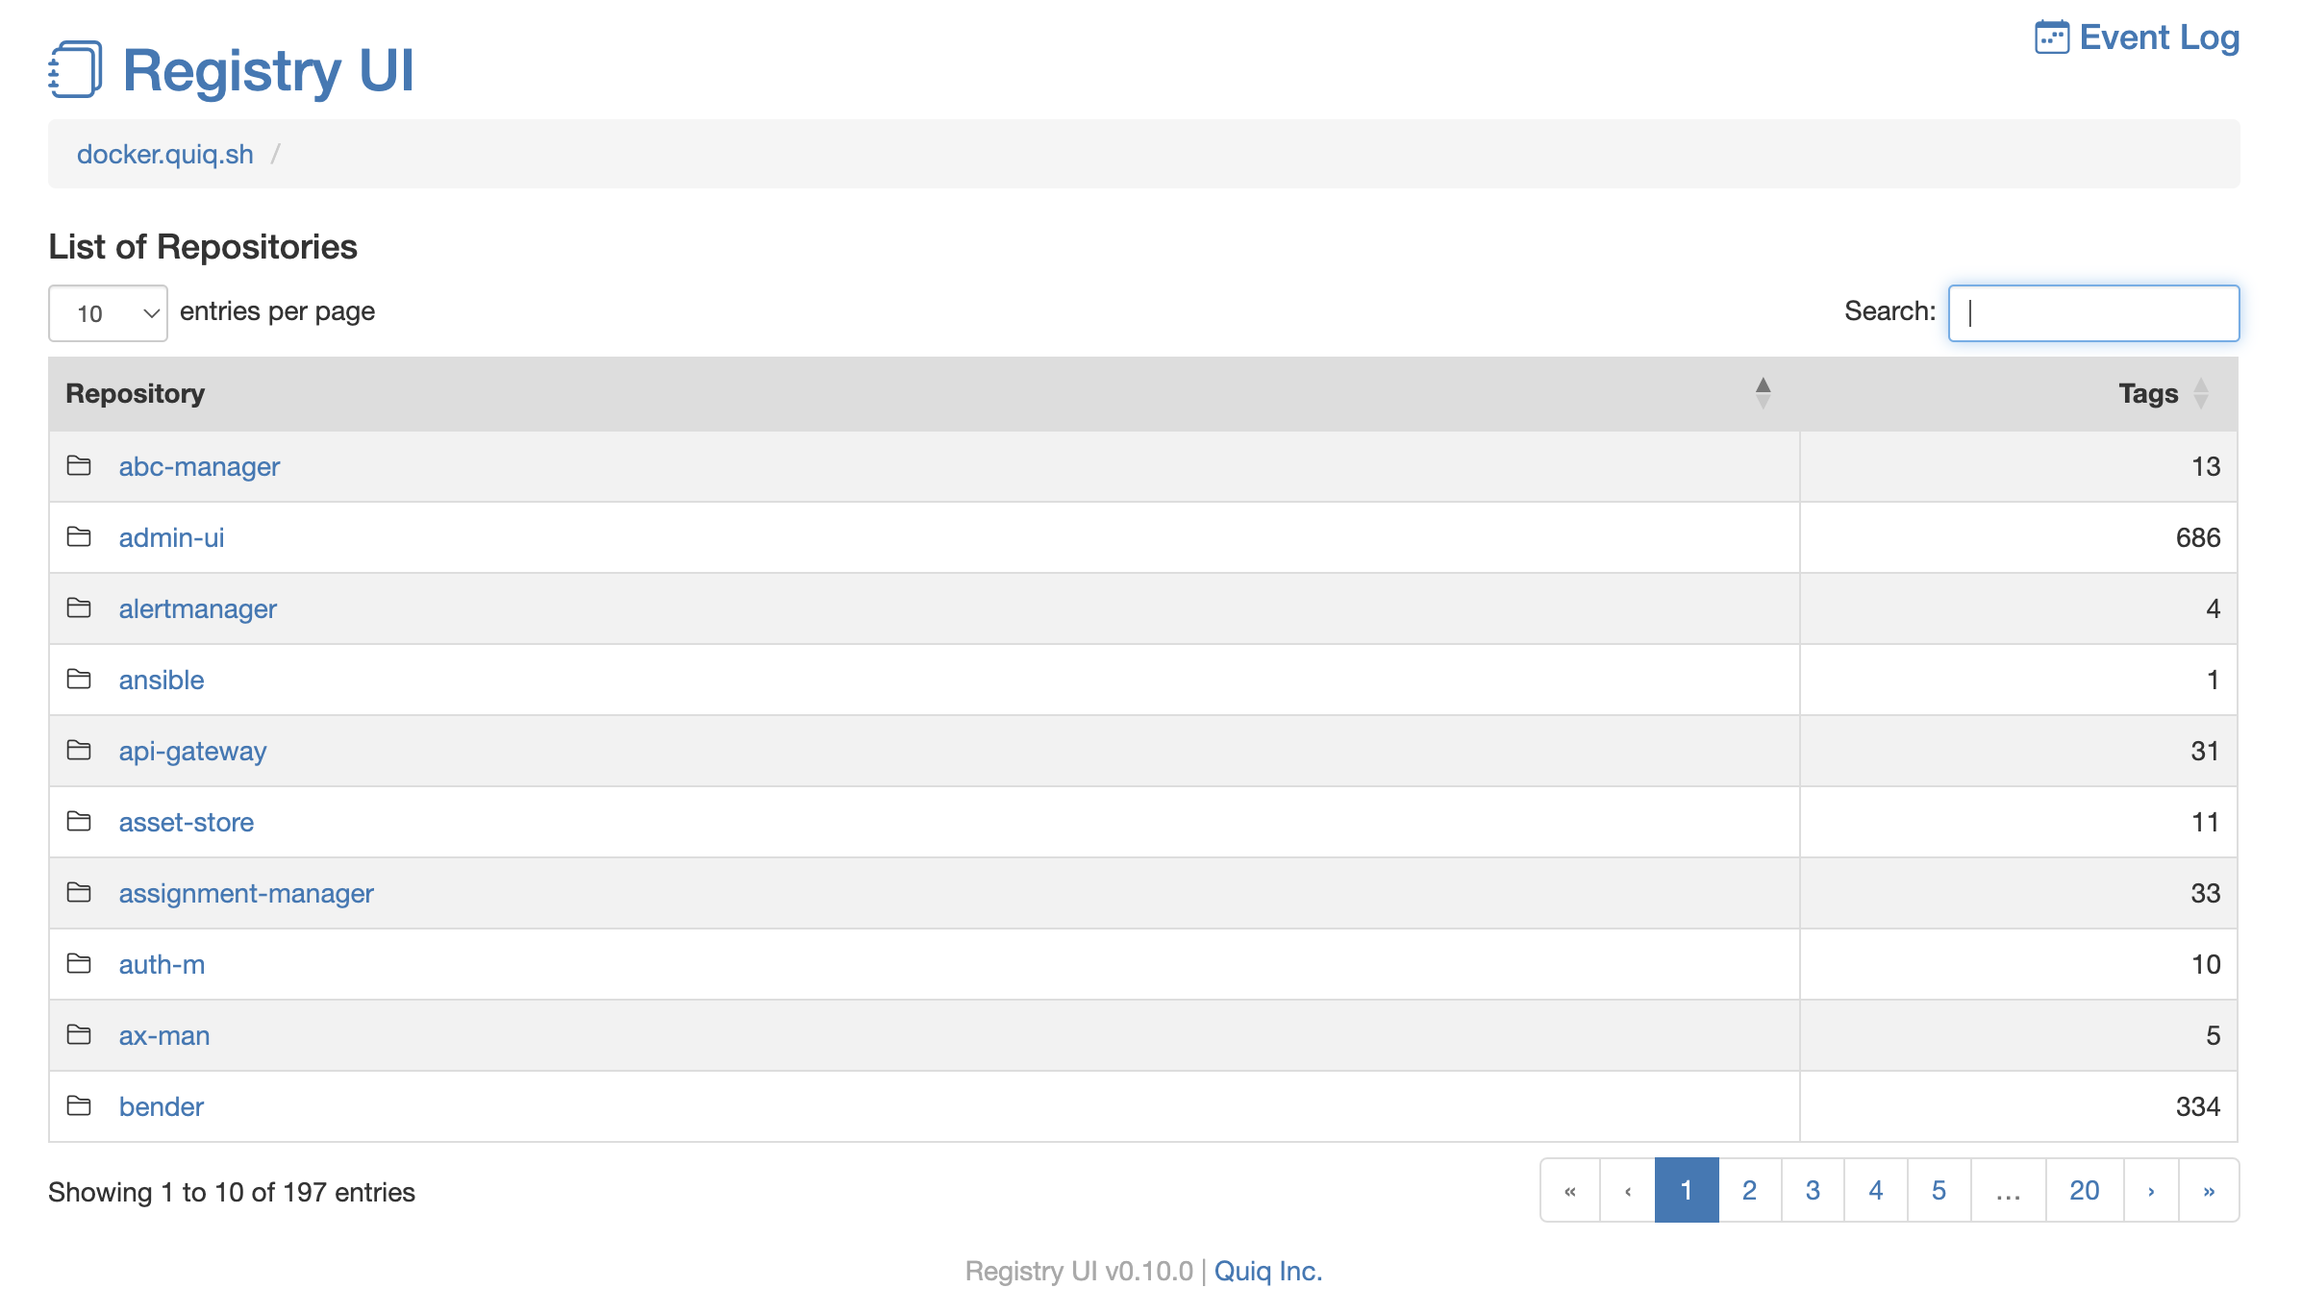
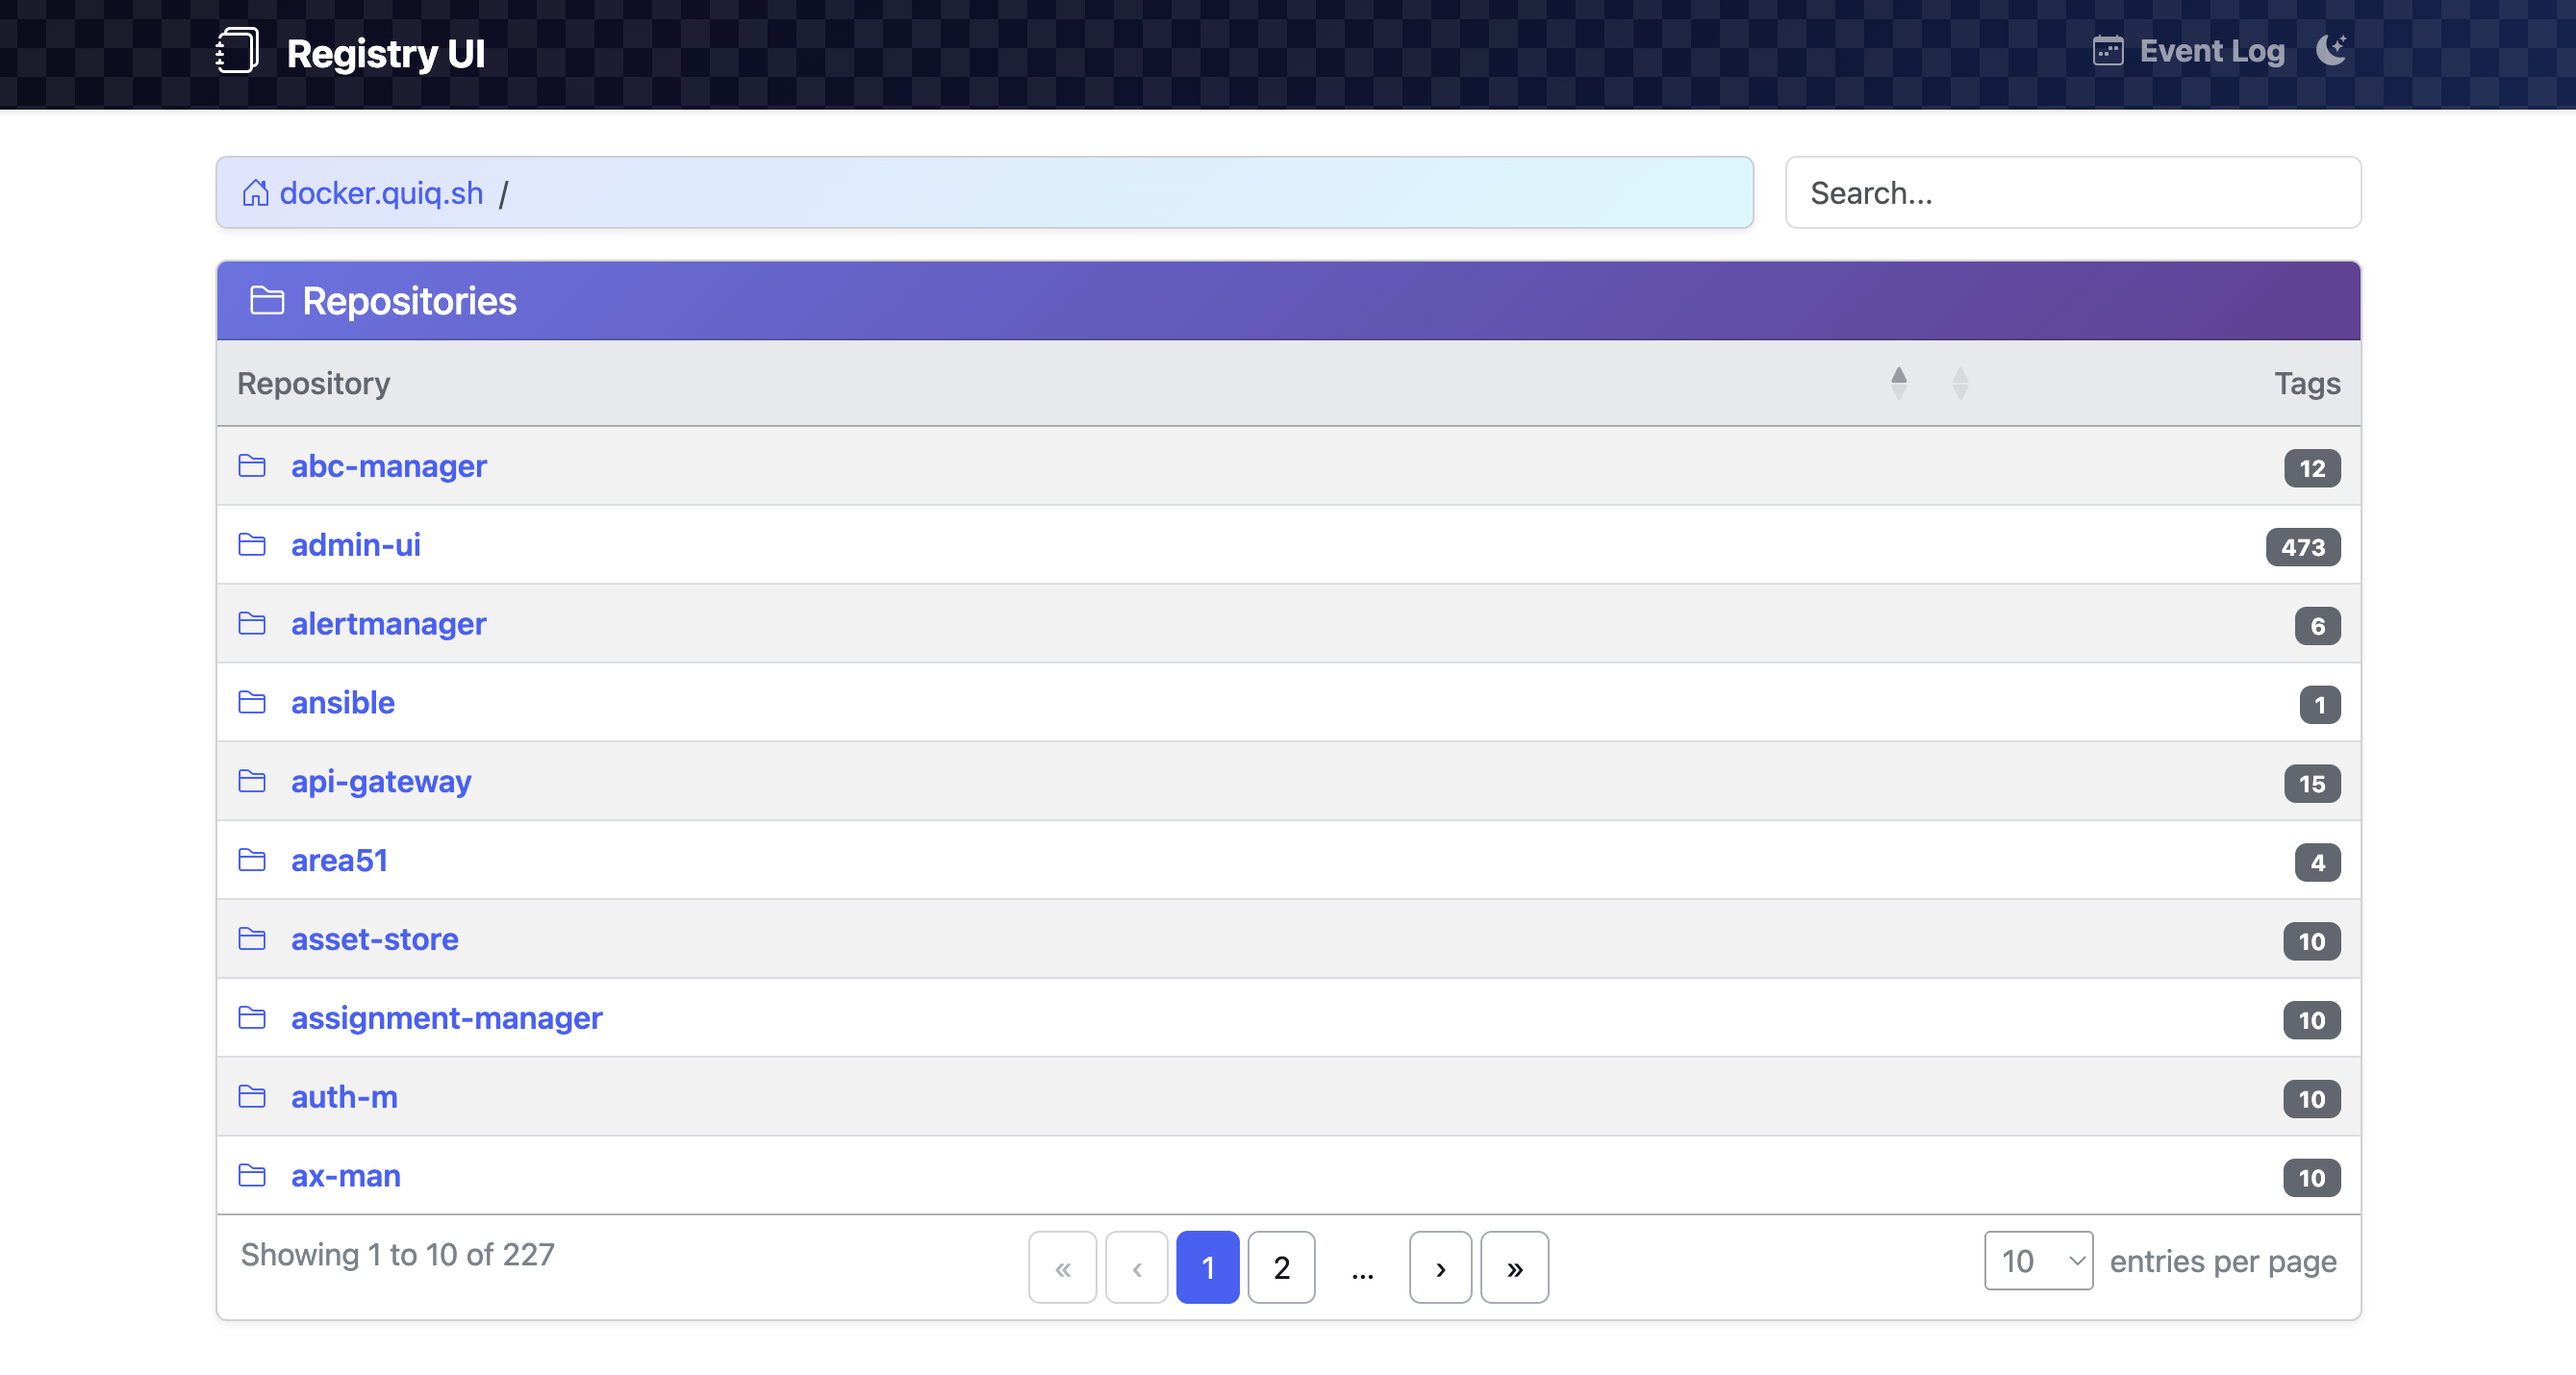
Version 0.11.0

Changed region(s): [[0.0, 0.0, 1.0, 0.5842], [0.0309, 0.6149, 0.9582, 0.9839], [0.0309, 0.6149, 0.1546, 0.6457]]

diff --git a/CHANGELOG.md b/CHANGELOG.md
@@ -1,5 +1,10 @@
 ## Changelog
 
+## 0.11.0 (2025-11-27)
+
+* Major UI rewrite.
+* Upgrade go version to 1.25.4 and all dependencies, alpine to 3.22.
+
 ## 0.10.4 (2025-06-11)
 
 * Include the default config file into the Docker image.
